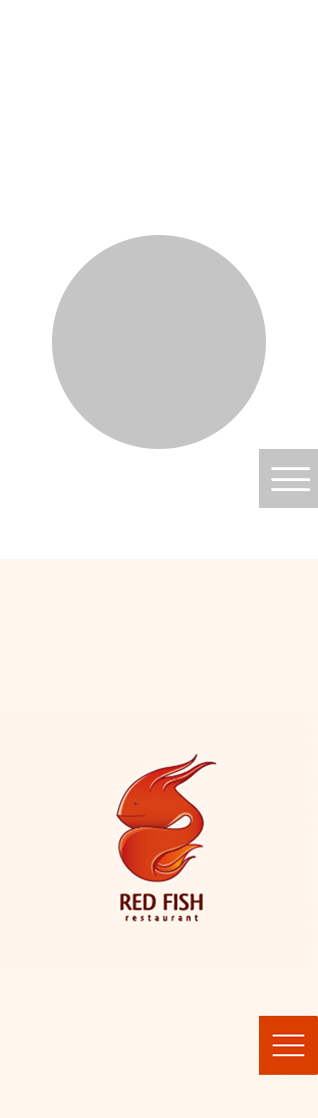
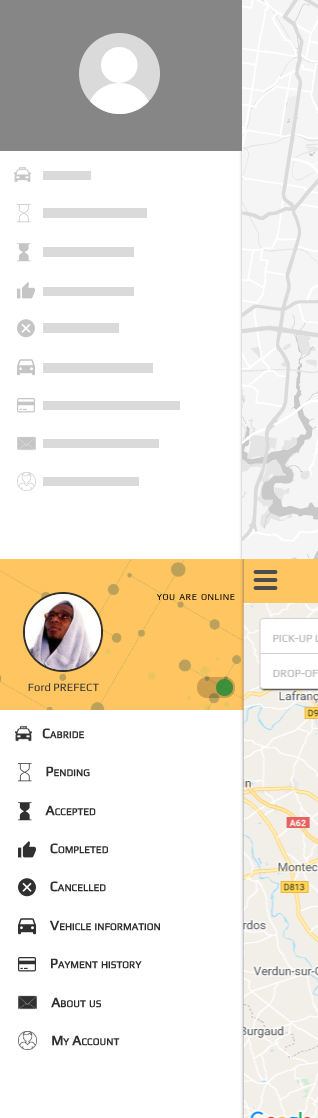
feat: template + layout overview images, layout improvements, css.

diff --git a/resources/var/apps/modules/layout/home/layout_taxi/view.html b/resources/var/apps/modules/layout/home/layout_taxi/view.html
@@ -66,16 +66,11 @@
             <li class="lines border-custom"
                 ng-click="loadPage('cabride-home')">
                 <div class="line-box">
-                    <img class="line-icon"
-                         ng-src="{{ cabride.icon_url }}"/>
+                    <span class="line-icon-box">
+                        <img class="line-icon"
+                             ng-src="{{ cabride.icon_url }}"/>
+                    </span>
                     <span class="line-title">{{ cabride.name }}</span>
-                </div>
-            </li>
-
-            <li class="lines border-custom line-divider"
-                ng-if="isLoggedIn && isDriver">
-                <div class="line-box">
-                    <span class="line-title">{{ "Rides" | translate }}</span>
                 </div>
             </li>
 
@@ -83,7 +78,9 @@
                 ng-if="isLoggedIn && isDriver"
                 ng-click="loadPage('pending-requests')">
                 <div class="line-box">
-                    <i class="line-icon icon ion-cab-timer"></i>
+                    <span class="line-icon-box">
+                        <i class="line-icon icon ion-cab-timer"></i>
+                    </span>
                     <span class="line-title">{{ "Pending requests" | translate }}</span>
                 </div>
             </li>
@@ -92,7 +89,9 @@
                 ng-if="isLoggedIn && isDriver"
                 ng-click="loadPage('accepted-requests')">
                 <div class="line-box">
-                    <i class="line-icon icon ion-cab-timer-full"></i>
+                    <span class="line-icon-box">
+                        <i class="line-icon icon ion-cab-timer-full"></i>
+                    </span>
                     <span class="line-title">{{ "Accepted requests" | translate }}</span>
                 </div>
             </li>
@@ -101,7 +100,9 @@
                 ng-if="isLoggedIn && isDriver"
                 ng-click="loadPage('completed-rides')">
                 <div class="line-box">
-                    <i class="line-icon icon ion-cab-thumb-up"></i>
+                    <span class="line-icon-box">
+                        <i class="line-icon icon ion-cab-thumb-up"></i>
+                    </span>
                     <span class="line-title">{{ "Completed rides" | translate }}</span>
                 </div>
             </li>
@@ -110,7 +111,9 @@
                 ng-if="isLoggedIn && isDriver"
                 ng-click="loadPage('cancelled')">
                 <div class="line-box">
-                    <i class="line-icon icon ion-cab-cancel"></i>
+                    <span class="line-icon-box">
+                        <i class="line-icon icon ion-cab-cancel"></i>
+                    </span>
                     <span class="line-title">{{ "Cancelled" | translate }}</span>
                 </div>
             </li>
@@ -119,7 +122,9 @@
                 ng-if="isLoggedIn && isDriver"
                 ng-click="loadPage('vehicle-information')">
                 <div class="line-box">
-                    <i class="line-icon icon ion-cab-car"></i>
+                    <span class="line-icon-box">
+                        <i class="line-icon icon ion-cab-car"></i>
+                    </span>
                     <span class="line-title">{{ "Vehicle information" | translate }}</span>
                 </div>
             </li>
@@ -128,16 +133,20 @@
                 ng-if="isLoggedIn && isDriver"
                 ng-click="loadPage('payment-history')">
                 <div class="line-box">
-                    <i class="line-icon icon ion-cab-credit-card"></i>
+                    <span class="line-icon-box">
+                        <i class="line-icon icon ion-cab-credit-card"></i>
+                    </span>
                     <span class="line-title">{{ "Payment history" | translate }}</span>
                 </div>
             </li>
 
             <li class="lines border-custom"
-                ng-if="isLoggedIn && !isDriver"
+                ng-if="isLoggedIn && isPassenger"
                 ng-click="loadPage('passenger-rides')">
                 <div class="line-box">
-                    <i class="line-icon icon ion-cab-thumb-up"></i>
+                    <span class="line-icon-box">
+                        <i class="line-icon icon ion-cab-thumb-up"></i>
+                    </span>
                     <span class="line-title">{{ "My rides" | translate }}</span>
                 </div>
             </li>
@@ -151,8 +160,10 @@
                 go-to-url="goTo(feature)">
 
                 <div class="line-box">
-                    <img class="line-icon"
-                         ng-src="{{ feature.icon_url }}"/>
+                    <span class="line-icon-box">
+                        <img class="line-icon"
+                             ng-src="{{ feature.icon_url }}"/>
+                    </span>
                     <span class="line-title">{{ feature.name }}</span>
                 </div>
 

diff --git a/resources/var/apps/modules/layout/home/layout_taxi/hooks.js b/resources/var/apps/modules/layout/home/layout_taxi/hooks.js
@@ -79,7 +79,8 @@ angular.module('starter').controller('LayoutTaxiController', function ($scope, $
         isOnline: false,
         customer: null,
         isLoggedIn: Customer.isLoggedIn(),
-        isDriver: true,
+        isPassenger: false,
+        isDriver: false,
         cabride: layout_taxi.cabride
     });
 
@@ -134,7 +135,9 @@ angular.module('starter').controller('LayoutTaxiController', function ($scope, $
     };
 
     $scope.customerName = function () {
-        if ($scope.customer) {
+        if ($scope.customer &&
+            $scope.customer.firstname &&
+            $scope.customer.lastname) {
             var fname = $scope.customer.firstname.toLowerCase();
             fname = fname.charAt(0).toUpperCase() + fname.slice(1);
             var lname = $scope.customer.lastname.toUpperCase();
@@ -200,12 +203,18 @@ angular.module('starter').controller('LayoutTaxiController', function ($scope, $
         $scope.rebuildMenu();
     });
 
+    $rootScope.$on("cabride.setIsOnline", function (event, isOnline) {
+        $scope.isOnline = isOnline;
+    });
+
     $rootScope.$on("cabride.isPassenger", function () {
+        $scope.isPassenger = true;
         $scope.isDriver = false;
         $scope.rebuildMenu();
     });
 
     $rootScope.$on("cabride.isDriver", function () {
+        $scope.isPassenger = false;
         $scope.isDriver = true;
         $scope.rebuildMenu();
     });

diff --git a/resources/var/apps/modules/layout/home/layout_taxi/style.css b/resources/var/apps/modules/layout/home/layout_taxi/style.css
@@ -20,6 +20,13 @@
     line-height: 22px;
 }
 
+.layout_taxi .line-icon-box {
+    width: 4em;
+    line-height: 6vw;
+    display: flex;
+    justify-content: center;
+}
+
 .layout_taxi .line-title {
     line-height: 6vw;
     margin-left: 1em;
